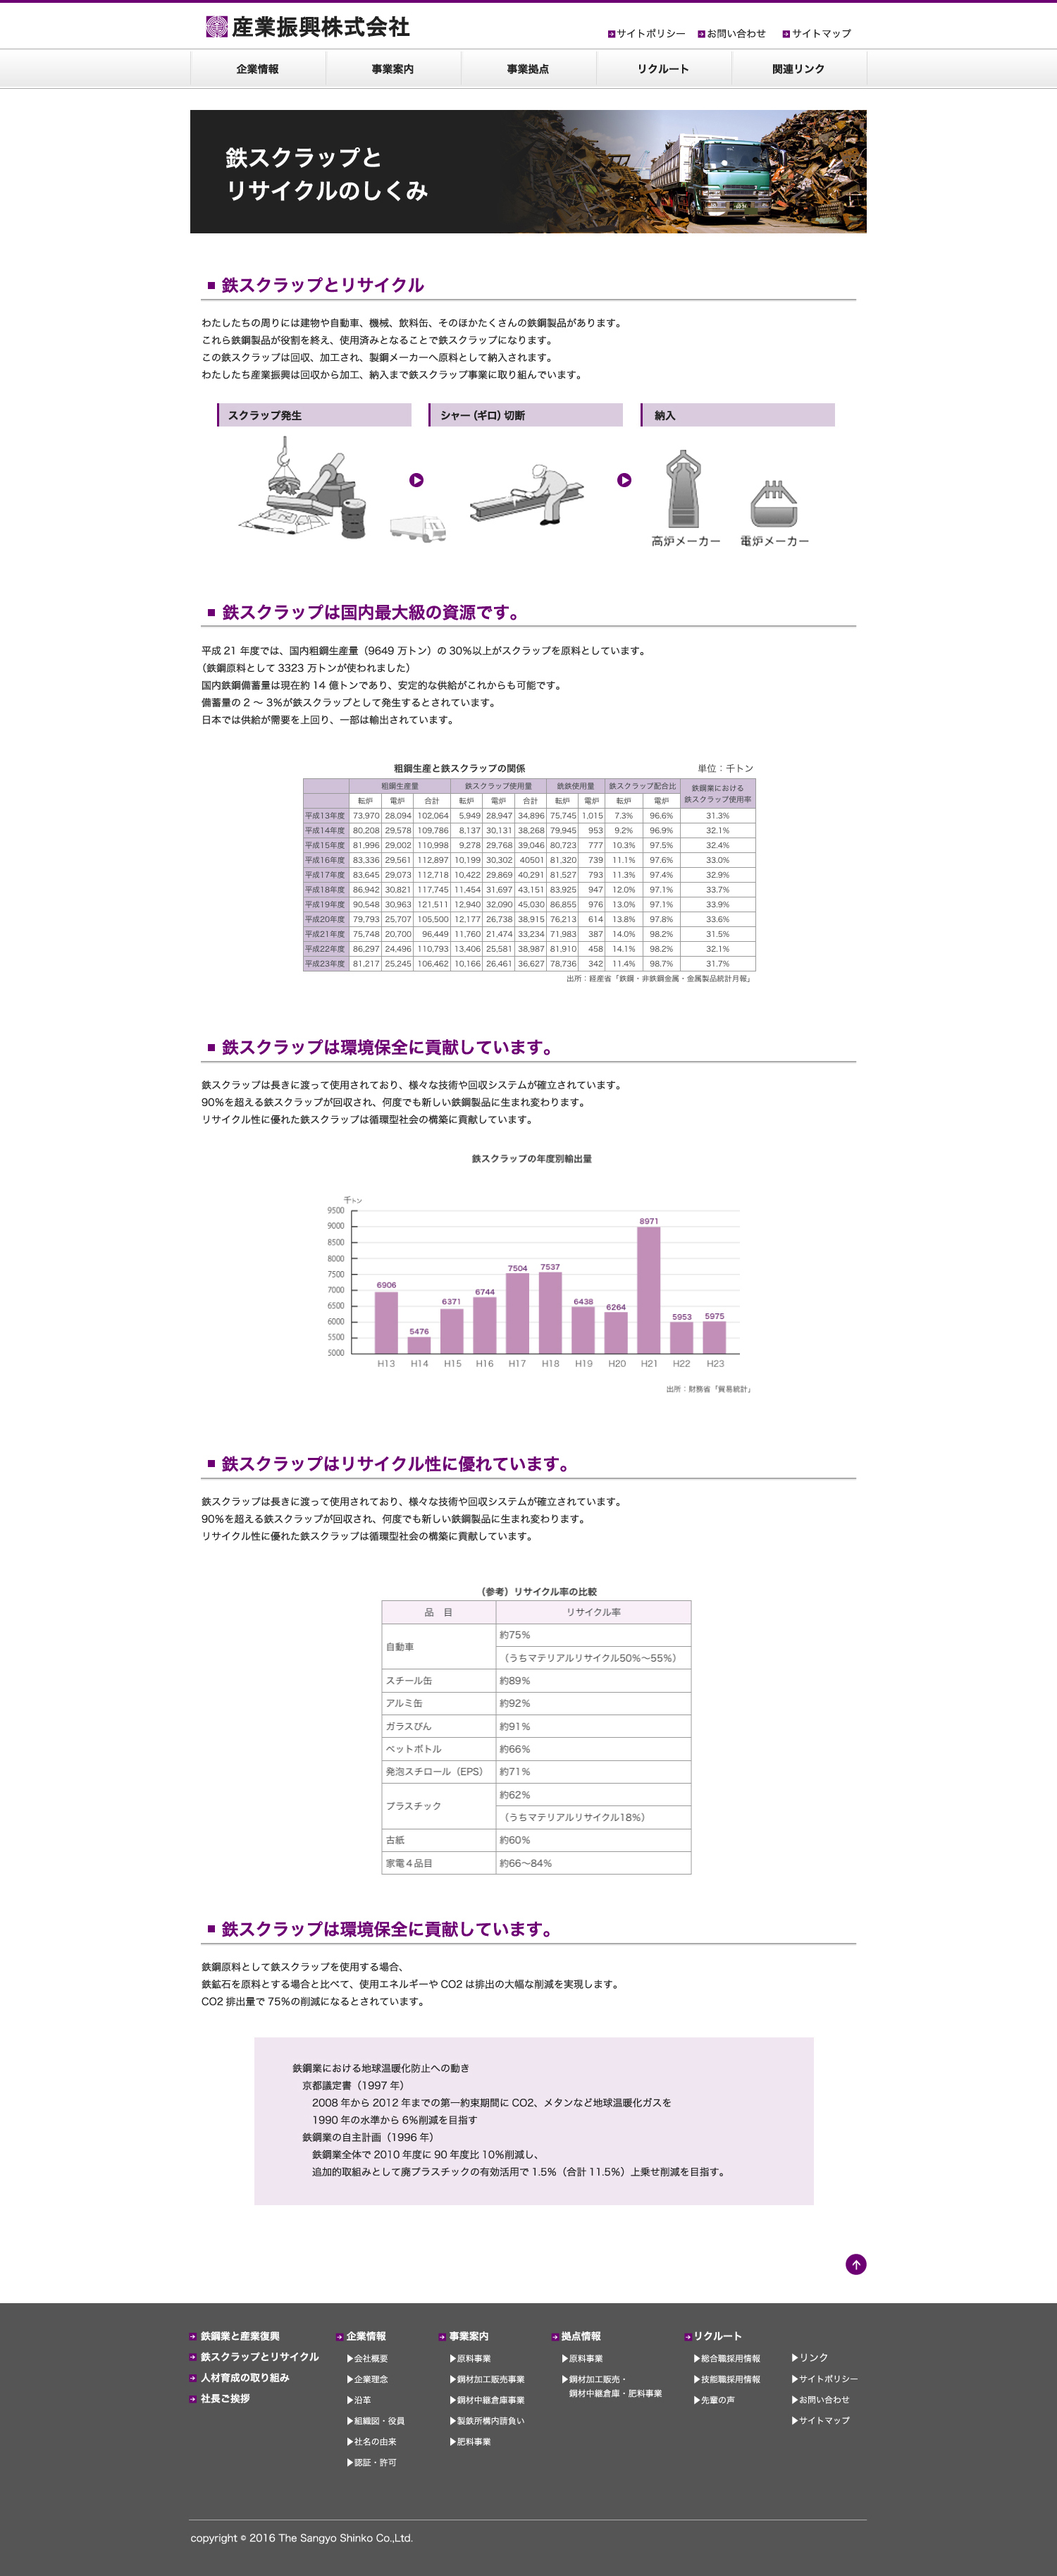
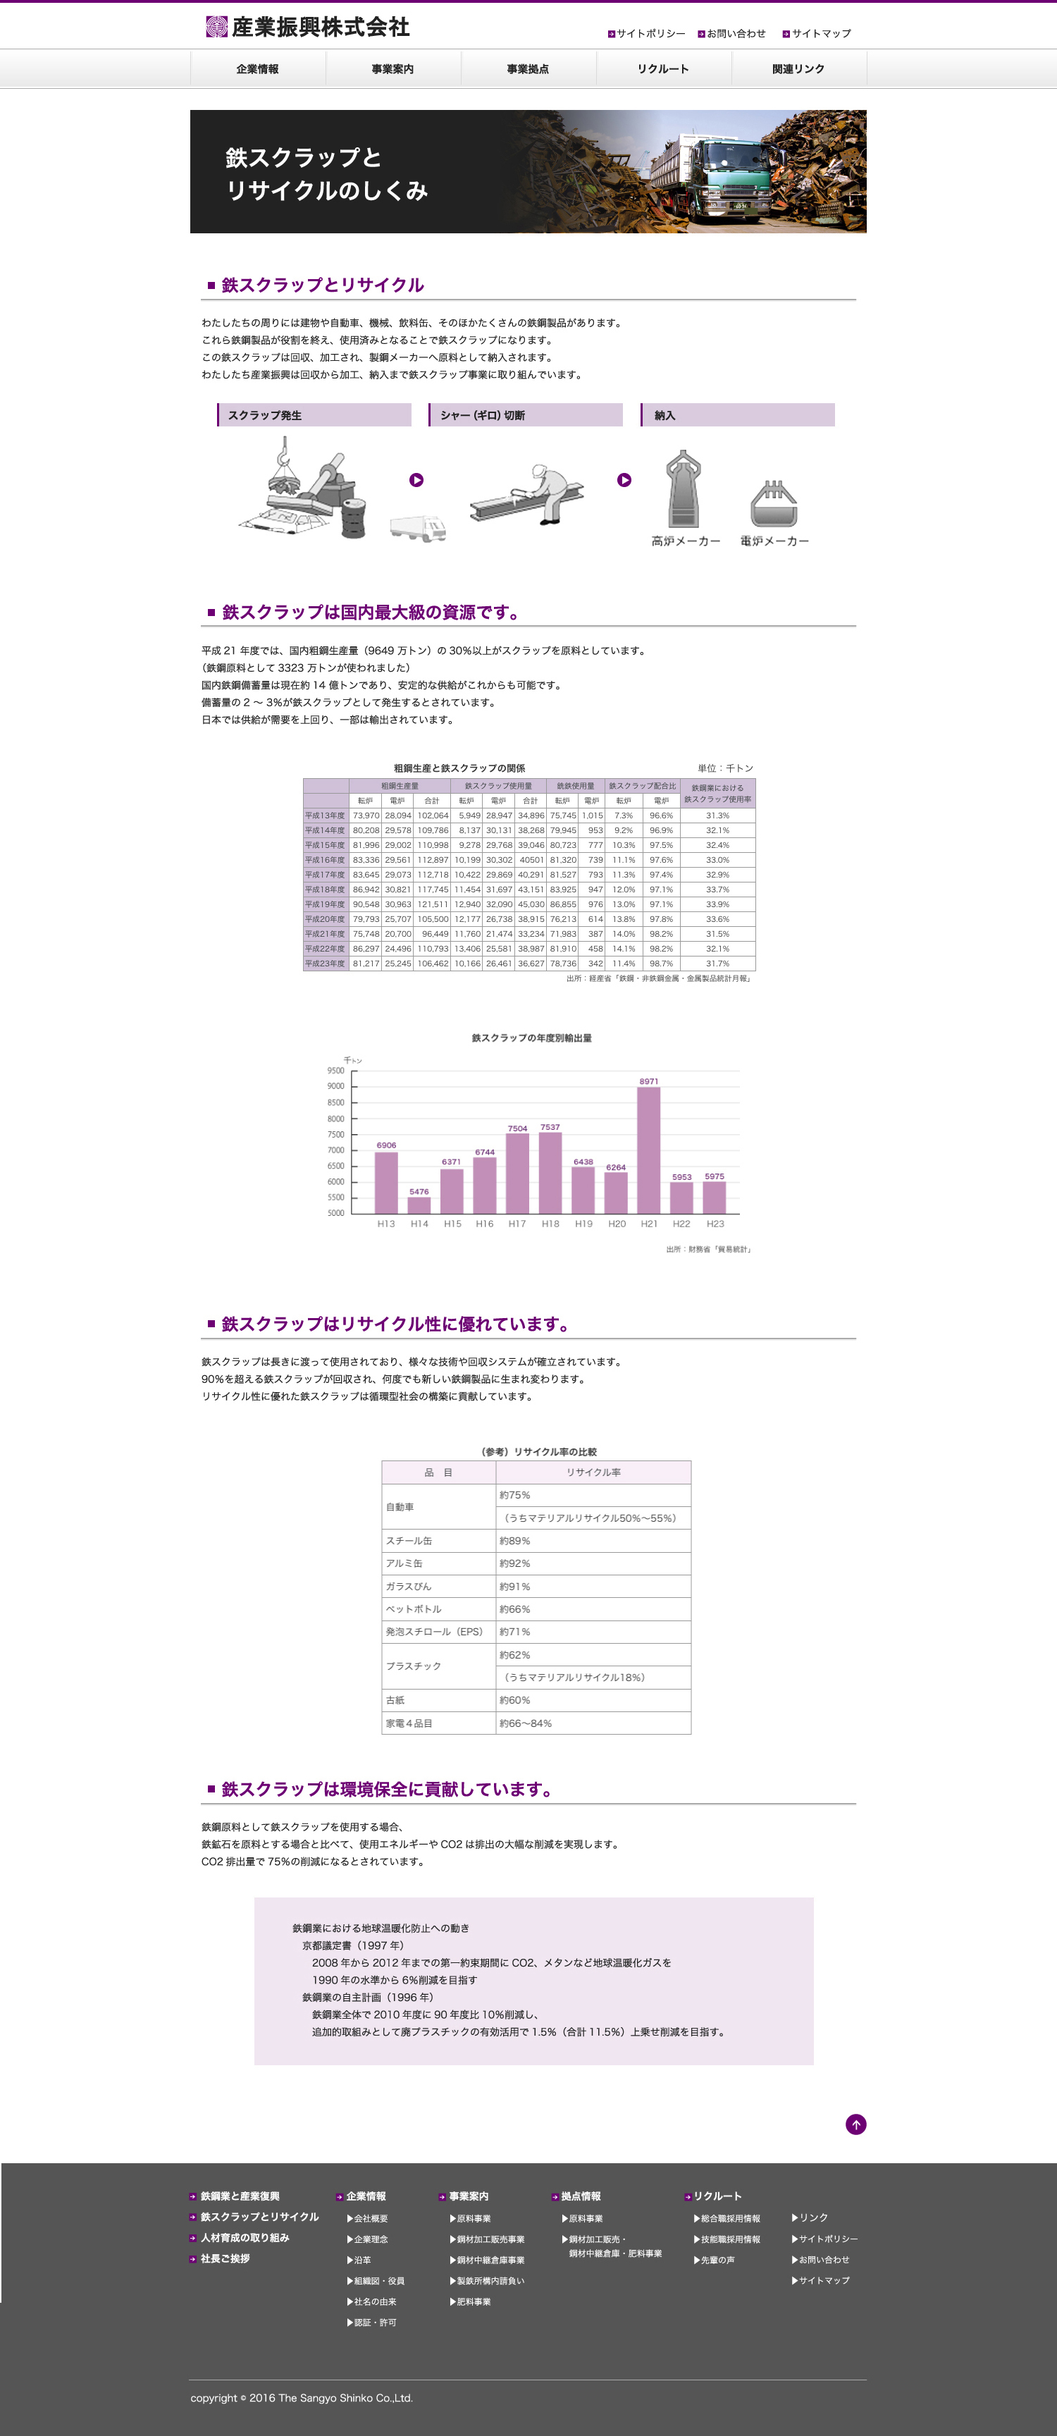
しつこく修正をいれてきました。プレゼンなので、そこまでこだわる必要がないのですが・・・・ 「tetsutoscrap.html」「tetsutoscrap.jpg」を修正しました。

Changed region(s): [[0.0, 0.0, 1.0, 0.9688]]

diff --git a/other/tetsutoscrap.html b/other/tetsutoscrap.html
@@ -6,11 +6,11 @@
 </head>
 
 <body leftmargin="0" topmargin="0">
-<img src="images/tetsutoscrap.jpg" width="1500" height="3654" usemap="#Map2" border="0" />
-<map name="Map2" id="Map2"><area shape="rect" coords="263,3392,361,3414" href="./shachougoaisatsu.html" target="_parent" /><area shape="rect" coords="481,3333,562,3360" href="kigyoujoho_gaiyo.html" target="_parent" /><area shape="rect" coords="634,3449,713,3479" href="./jigyo_hiryou.html" target="_parent" /><area shape="rect" coords="630,3331,699,3360" href="./jigyo_genryo.html" target="_parent" /><area shape="rect" coords="265,3361,418,3386" href="./jinzai.html" target="_parent" /><area shape="rect" coords="266,3333,450,3355" href="./tetsutoscrap.html" target="_parent" /><area shape="rect" coords="475,3301,556,3328" href="./kigyoujoho.html" target="_parent" /><area shape="rect" coords="625,3299,701,3328" href="./jigyo_top.html" target="_parent" />
-  <area shape="rect" coords="466,69,651,124" href="jigyo_genryo.html" target="_parent" />
-  <area shape="rect" coords="277,67,464,123" href="kigyoujoho.html" target="_parent" />
-  <area shape="rect" coords="273,1,590,64" href="../index.html" target="_parent" />
+<img src="images/tetsutoscrap.jpg" width="1500" height="3456" usemap="#Map2" border="0" />
+<map name="Map2" id="Map2"><area shape="rect" coords="273,0,590,60" href="../index.html" target="_parent" /><area shape="rect" coords="277,63,464,116" href="kigyoujoho.html" target="_parent" /><area shape="rect" coords="466,65,651,117" href="jigyo_genryo.html" target="_parent" /><area shape="rect" coords="271,3134,455,3155" href="./tetsutoscrap.html" target="_parent" /><area shape="rect" coords="635,3132,704,3159" href="./jigyo_genryo.html" target="_parent" /><area shape="rect" coords="268,3190,366,3211" href="./shachougoaisatsu.html" target="_parent" /><area shape="rect" coords="486,3134,567,3159" href="kigyoujoho_gaiyo.html" target="_parent" /><area shape="rect" coords="480,3104,561,3129" href="./kigyoujoho.html" target="_parent" />
+  <area shape="rect" coords="630,3102,706,3129" href="./jigyo_top.html" target="_parent" />
+  <area shape="rect" coords="270,3160,423,3184" href="./jinzai.html" target="_parent" />
+  <area shape="rect" coords="638,3251,717,3279" href="./jigyo_hiryou.html" target="_parent" />
 </map>
 <map name="Map" id="Map">
   <area shape="rect" coords="503,17,777,93" href="../index.html" target="_parent" />
